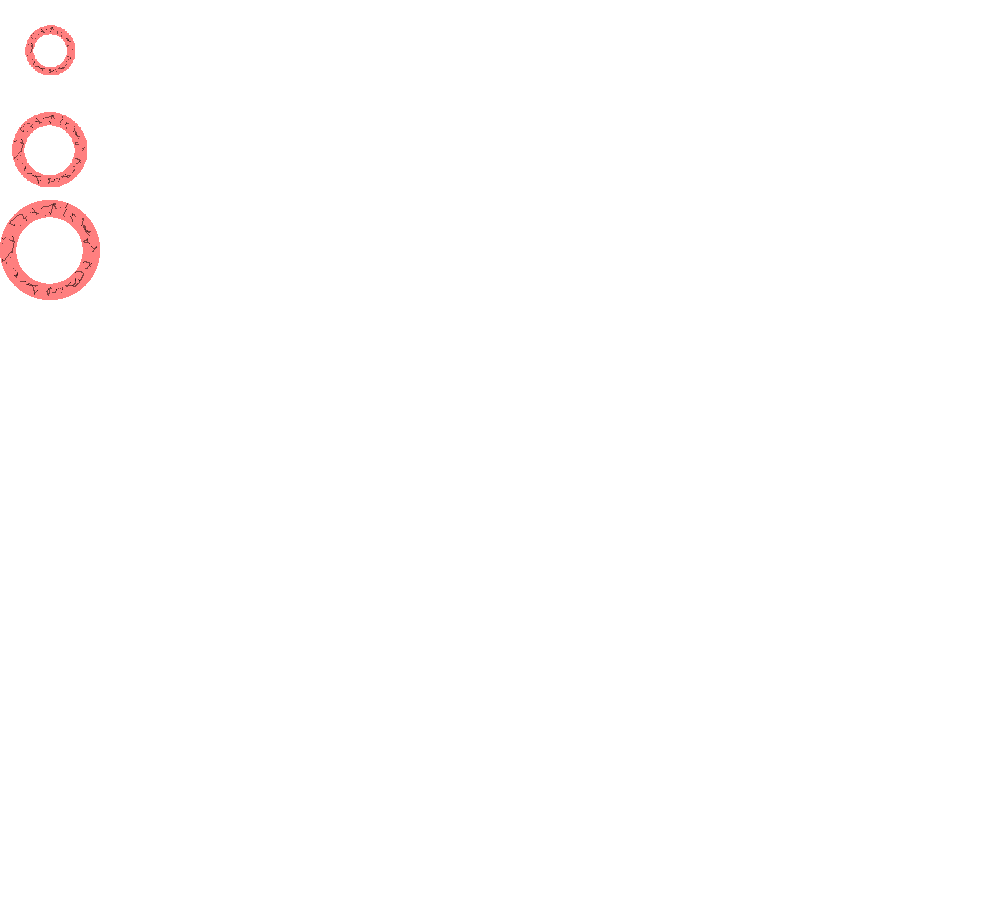
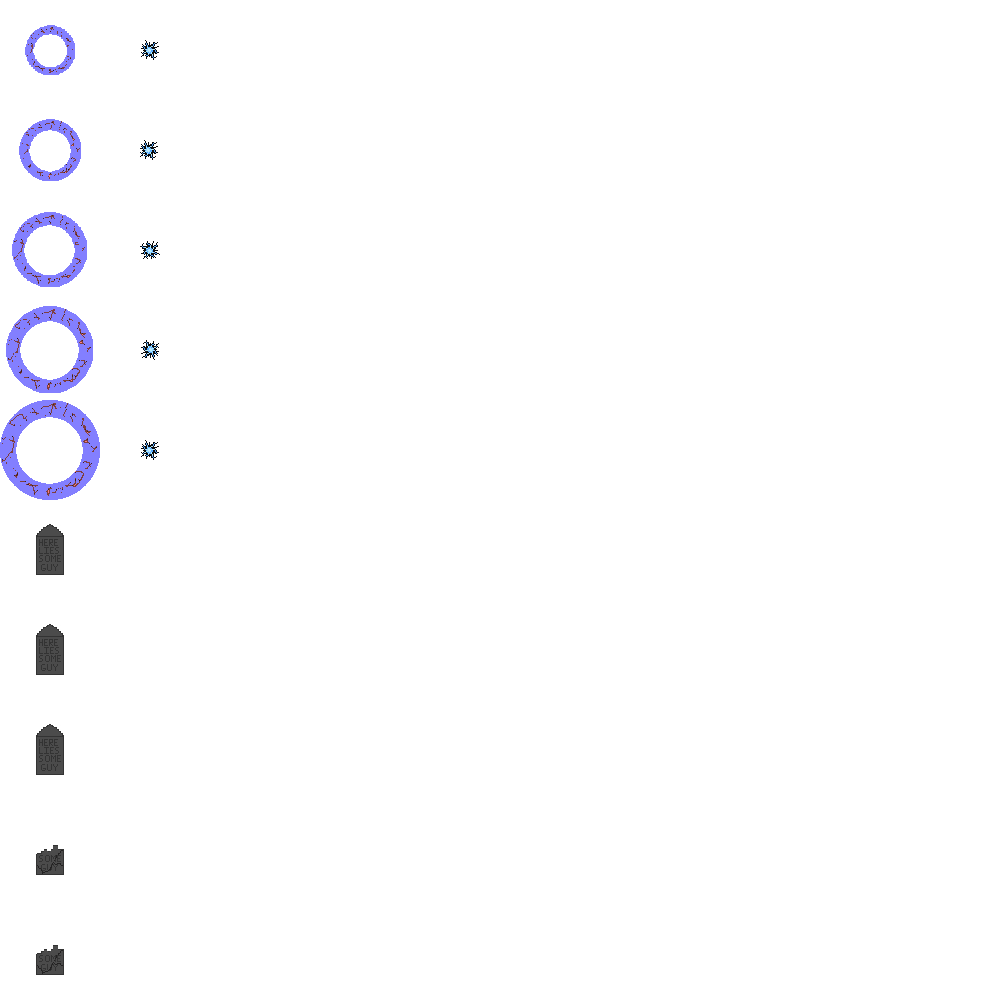
* Fixed two bugs: 1) Calculating the distance for RadiusAttackAbility 2) Physics::deathCheck() had a memory leak
* Took away the catch-all exception handler (the one in main.cpp).. Extremely bad practice and bit me in the arse

* Increased frames for AoE (radius-based attack) from 3 to 5

* Added a grave animation for entity deaths

diff --git a/SDL_Setup/main.cpp b/SDL_Setup/main.cpp
@@ -71,57 +71,57 @@ int main( int argc, char* args[] )
 	//***********************************************************************************
     while( !gui.quit )
     {
-		try
-		{
+		//try
+		//{
 			//call the eventHandler
-			gui.eventHandler();
+		gui.eventHandler();
 
-			//switch through the gamestates for the game engine
-			switch(gamestate.currentState)
-			{
-			case STATES_GAMEPLAY:
-				MenuEngine::engine(STATES_GAMEPLAY, gamestate);
-
-				if(gui.fpsTimer.allowPhysics)
-				{
-					//do some physics
-					Physics::doPhysics(gamestate, hud, gui);
-
-					//reset the frame timer to 0. Used to regulate minimum time per frame
-					gui.fpsTimer.start();
-				}
-				break;
-			case STATES_DEATH_MENU:
-				MenuEngine::engine(STATES_DEATH_MENU, gamestate);
-				break;
-			case STATES_START_MENU:
-				MenuEngine::engine(STATES_START_MENU, gamestate);
-				break;
-			case STATES_PAUSE_MENU:
-				MenuEngine::engine(STATES_PAUSE_MENU, gamestate);
-				break;
-			case STATES_OPTIONS_MENU:
-				MenuEngine::engine(STATES_OPTIONS_MENU, gamestate);
-				break;
-			case STATES_CREDITS_MENU:
-				MenuEngine::engine(STATES_CREDITS_MENU, gamestate);
-				break;
-			}
-
-			//apply all of the surfaces to surface_screen
-			gui.displayAll();
-
-			//Update the screen by flipping surface_screen
-			if(!gui.flipScreen())
-				return 1;
-
-			//regulate the frame rate, and update the currentFrameRate (needs to stay at end of game loop)
-			gui.frameRate();
-		}
-		//catch(std::exception& e)
-		catch(...) //bad-practice attempt at a catch-all to prevent crashes in full-screen
+		//switch through the gamestates for the game engine
+		switch(gamestate.currentState)
 		{
+		case STATES_GAMEPLAY:
+			MenuEngine::engine(STATES_GAMEPLAY, gamestate);
+
+			if(gui.fpsTimer.allowPhysics)
+			{
+				//do some physics
+				Physics::doPhysics(gamestate, hud, gui);
+
+				//reset the frame timer to 0. Used to regulate minimum time per frame
+				gui.fpsTimer.start();
+			}
+			break;
+		case STATES_DEATH_MENU:
+			MenuEngine::engine(STATES_DEATH_MENU, gamestate);
+			break;
+		case STATES_START_MENU:
+			MenuEngine::engine(STATES_START_MENU, gamestate);
+			break;
+		case STATES_PAUSE_MENU:
+			MenuEngine::engine(STATES_PAUSE_MENU, gamestate);
+			break;
+		case STATES_OPTIONS_MENU:
+			MenuEngine::engine(STATES_OPTIONS_MENU, gamestate);
+			break;
+		case STATES_CREDITS_MENU:
+			MenuEngine::engine(STATES_CREDITS_MENU, gamestate);
+			break;
 		}
+
+		//apply all of the surfaces to surface_screen
+		gui.displayAll();
+
+		//Update the screen by flipping surface_screen
+		if(!gui.flipScreen())
+			return 1;
+
+		//regulate the frame rate, and update the currentFrameRate (needs to stay at end of game loop)
+		gui.frameRate();
+		//}
+		//catch(std::exception& e)
+		//catch(...) //bad-practice attempt at a catch-all to prevent crashes in full-screen
+		//{
+		//}
     }
     //***********************************************************************************
 	//*********** End of the game loop **************************************************

diff --git a/SDL_Setup/Physics.cpp b/SDL_Setup/Physics.cpp
@@ -277,8 +277,10 @@ void Physics::updateHUD(Gamestate& gamestate, HUD& hud)
 
 	hud.advancedMessages.at(hud.MESSAGE_LIFE).set_message("Life:  " + to_string(int(gamestate.vector_players.at(0).currentStatus.lifeAmount())));
 
-	hud.hudMessages.at(0).set_message(to_string(int(ceil(gamestate.vector_players.at(0).currentStatus.lifeAmount()))) + " / " + to_string(int(gamestate.vector_players.at(0).currentStatus.maxLife)));
-	hud.hudMessages.at(1).set_message(to_string(int(ceil(gamestate.vector_players.at(0).currentStatus.manaAmount()))) + " / " + to_string(int(gamestate.vector_players.at(0).currentStatus.maxMana)));
+	hud.hudMessages.at(0).set_message(to_string(int(ceil(gamestate.vector_players.at(0).currentStatus.lifeAmount()))) + " / " + 
+									  to_string(int(gamestate.vector_players.at(0).currentStatus.get_maxLife())));
+	hud.hudMessages.at(1).set_message(to_string(int(ceil(gamestate.vector_players.at(0).currentStatus.manaAmount()))) + " / " + 
+									  to_string(int(gamestate.vector_players.at(0).currentStatus.get_maxMana())));
 }
 
 void Physics::updateHealthbarPos(Gamestate* gamestate, int i)
@@ -442,13 +444,20 @@ void Physics::deathCheck(Gamestate& gamestate/*, HUD& hud, GUI& gui*/)
 	{
 		if(!gamestate.vector_entities.at(i)->currentStatus.hasLife())
 		{
+			gamestate.vector_animations.push_back(new AnimationStatic(
+				gamestate.vector_entities.at(i)->posX + ENTITY_CLIP_W / 2 - ANIMATION_CLIP_W / 2,
+				gamestate.vector_entities.at(i)->posY + ENTITY_CLIP_H / 2 - ANIMATION_CLIP_H / 2,
+				ANIMATION_NUM_GRAVE,
+				ANIMATION_DEGRADATIONRATE_GRAVE
+				));
+
 			//delete any relevant animations for this entitie's death
-			for(int i = gamestate.vector_animations.size() - 1; i >= 1; i--)
+			for(int j = gamestate.vector_animations.size() - 1; j >= 1; j--)
 			{
-				if(gamestate.vector_animations.at(i)->get_ownerEntity() == gamestate.vector_entities.at(i))
+				if(gamestate.vector_animations.at(j)->get_ownerEntity() == gamestate.vector_entities.at(i))
 				{
-					delete gamestate.vector_animations.at(i);
-					gamestate.vector_animations.erase(gamestate.vector_animations.begin() + i);
+					delete gamestate.vector_animations.at(j);
+					gamestate.vector_animations.erase(gamestate.vector_animations.begin() + j);
 				}
 			}
 

diff --git a/SDL_Setup/GUI.cpp b/SDL_Setup/GUI.cpp
@@ -474,9 +474,9 @@ void GUI::displayAll()
 		case STATES_GAMEPLAY:
 			SDL_FillRect(surface_screen, NULL, SDL_MapRGB(surface_screen->format, 0, 0, 0));
 			display(CODE_TERRAIN);
+			display(CODE_ANIMATIONS);
 			display(CODE_ENTITY);
 			display(CODE_HUD);
-			display(CODE_ANIMATIONS);
 			break;
 
 		case STATES_START_MENU:
@@ -578,8 +578,15 @@ void GUI::handlePlayerInput(int in_key)
 		switch(in_key)
 		{
 		case KEY_SPACE:
-			gamestatePtr->vector_abilities_player.push_back(new RadiusAttackAbility(gamestatePtr->vector_entities.at(0), &gamestatePtr->vector_entities, 50, 25,
-				ANIMATION_TYPE_ENTITY, 0, ANIMATION_DEGRADATION_RATE, 25));
+			gamestatePtr->vector_abilities_player.push_back(new RadiusAttackAbility(
+				gamestatePtr->vector_entities.at(0), 
+				&gamestatePtr->vector_entities, 
+				50, 
+				25,
+				ANIMATION_TYPE_ENTITY, 
+				0, 
+				ANIMATION_DEGRADATIONRATE_AOE, 
+				25));
 			break;
 		}
 	}
@@ -613,7 +620,7 @@ void GUI::eventHandler()
 						break;
 					case SDLK_SPACE:
 						gamestatePtr->vector_players.at(0).pressKey(KEY_SPACE);
-							handlePlayerInput(KEY_SPACE);
+						handlePlayerInput(KEY_SPACE);
 						break;
 					case SDLK_ESCAPE:
 						gamestatePtr->vector_players.at(0).pressKey(KEY_ESC);

diff --git a/SDL_Setup/PlayerStatus.h b/SDL_Setup/PlayerStatus.h
@@ -4,18 +4,17 @@
 class PlayerStatus
 {
 private:
+	float
+		life, //The player's current life.
+		maxLife, //The player's maximum life.
+		mana,
+		maxMana;
 
 
 	//pointer to the player's stats
 
 public:
 	PlayerStatus(); //Initialize PlayerStatus' members to determined maximums.
-
-	float
-		life, //The player's current life.
-		maxLife, //The player's maximum life.
-		mana,
-		maxMana;
 
 	bool hasLife(); //Does the player have > 0 life?
 	bool hasMana(float x); //Does the player have x mana to take?
@@ -27,6 +26,8 @@ public:
 	void healMana(); //Heal the player's mana. mana set to a determined maximum.
 	float lifeAmount(); //Returns the amount of life.
 	float lifePercent(); //Returns the ratio of life/maxLife
+	float get_maxLife() { return this->maxLife; }
+	float get_maxMana() { return this->maxMana; }
 	float manaAmount();
 	float manaPercent();
 };

diff --git a/SDL_Setup/RadiusAttackAbility.cpp b/SDL_Setup/RadiusAttackAbility.cpp
@@ -33,8 +33,14 @@ bool RadiusAttackAbility::useAbility()
 		for(int i = 1; i < vector_entities->size(); i++)
 		{
 			//had to - ENTITY_CLIP_H / 2 to compensate for the height of the entities.. can't just do point-source distance values
-			if(sqrt(pow(vector_entities->at(i)->posX + ENTITY_CLIP_W / 2 - playerX, 2) + pow(vector_entities->at(i)->posY + ENTITY_CLIP_H / 2 - playerY, 2)) - ENTITY_CLIP_H / 2 <= this->radius)
+			if(sqrt(
+					pow(vector_entities->at(i)->posX + ENTITY_CLIP_H / 2 - playerX, 2)
+					+ pow(vector_entities->at(i)->posY + ENTITY_CLIP_H / 2 - playerY, 2)
+				) - ENTITY_CLIP_H / 2 <= this->radius)
+			{
 				vector_entities->at(i)->currentStatus.takeLife(this->baseDamage);
+				//OutputDebugString(("\n\n" + to_string(i) + ", damage: " + to_string(this->baseDamage) + "\n\n").c_str());
+			}			
 		}
 
 		return true;

diff --git a/SDL_Setup/constants.cpp b/SDL_Setup/constants.cpp
@@ -64,10 +64,15 @@ const int ANIMATION_FILE_W = 1000;
 const int ANIMATION_FILE_H = 900;
 const int ANIMATION_CLIP_W = 100;
 const int ANIMATION_CLIP_H = 100;
-const int ANIMATION_MAX_STATE = 2;
-const int ANIMATION_DEGRADATION_RATE = 6;
+const int ANIMATION_MAX_STATE = 4;
+const int ANIMATION_DEGRADATIONRATE_AOE = 4;
+const int ANIMATION_DEGRADATIONRATE_GRAVE = 200;
 enum { ANIMATION_AOE };
 enum { ANIMATION_TYPE_NONE, ANIMATION_TYPE_STATIC, ANIMATION_TYPE_ENTITY };
+const int ANIMATION_NUM_AOE = 0;
+const int ANIMATION_NUM_MAGICMISSILE = 1;
+const int ANIMATION_NUM_GRAVE = 10;
+
 
 //entity file attributes
 const int ENTITY_FILE_W = 768;
